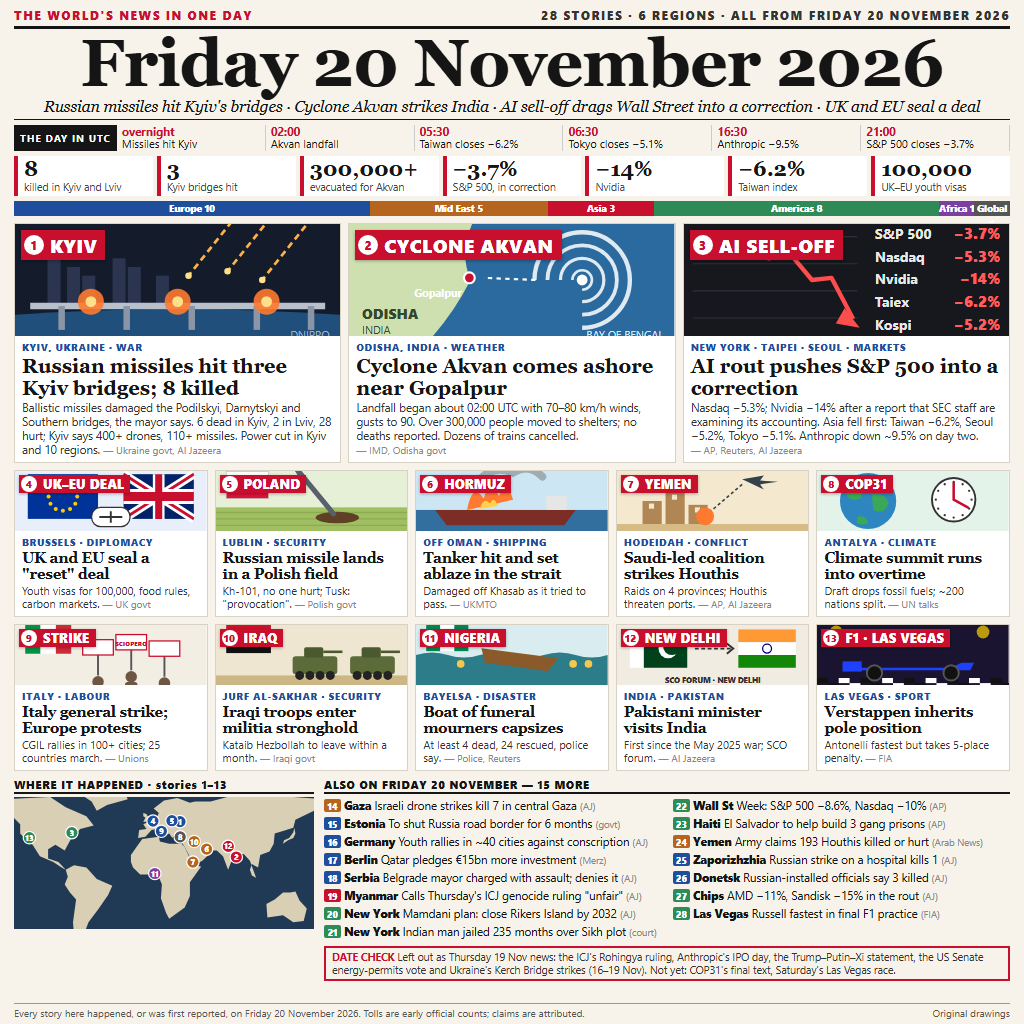
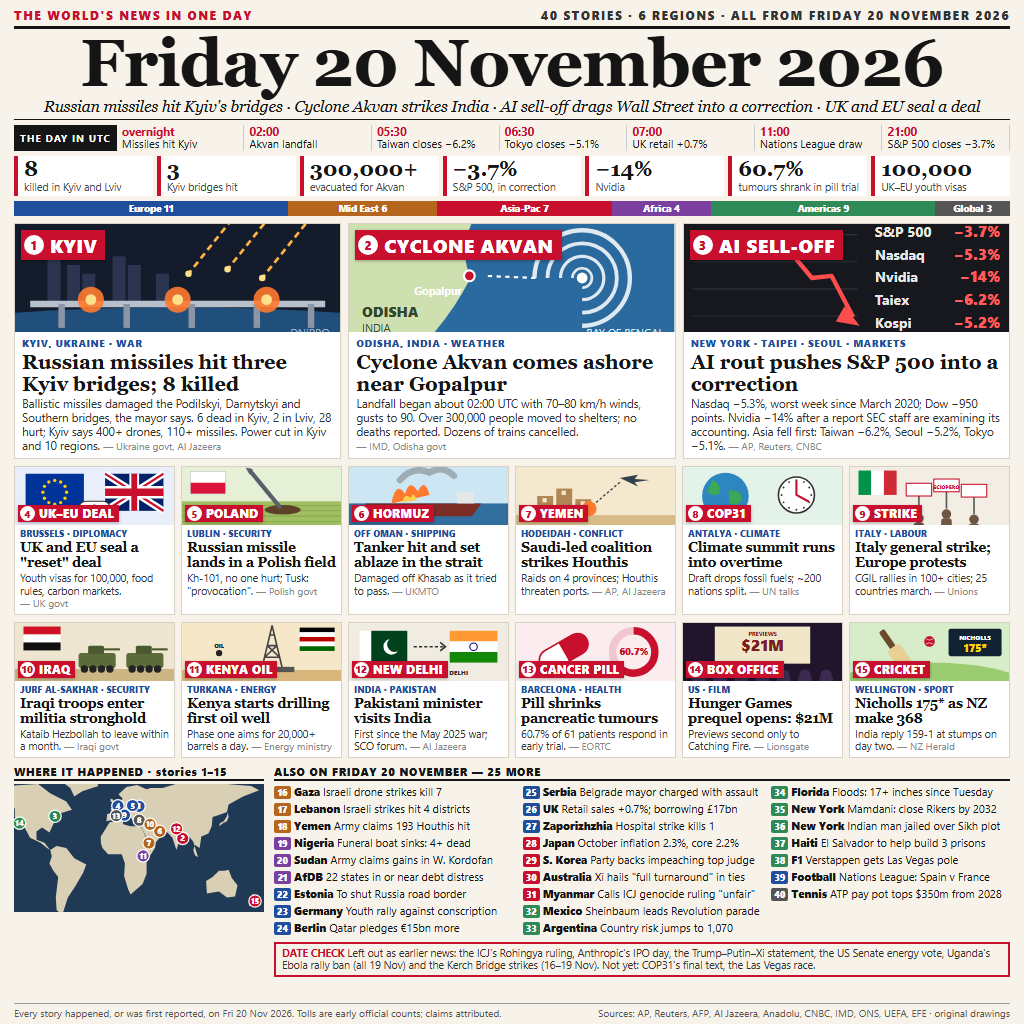
v3: 40 stories; add Kenya oil, AfDB, Sudan, Japan CPI, cricket, box office, cancer pill, UK data
Rows of six tiles, three brief columns, map covers stories 1-15, sources in footer.

diff --git a/README.md b/README.md
@@ -4,7 +4,7 @@
 [![rank](https://make.fun/badge/news-image-20261120/BrotherMus/world-news-2026-11-20/rank.svg)](https://make.fun/bounty/news-image-20261120/leaderboard?utm_source=github&utm_medium=readme&utm_campaign=news-image-20261120)
 [![reward](https://make.fun/badge/news-image-20261120/BrotherMus/world-news-2026-11-20/reward.svg)](https://make.fun/bounty/news-image-20261120?utm_source=github&utm_medium=readme&utm_campaign=news-image-20261120)
 
-The world's news of Friday 20 November 2026 on one front page: 28 stories across six regions, led by Russia's missile strike on Kyiv's bridges, Cyclone Akvan's landfall in Odisha and the AI sell-off that pushed the S&P 500 into a correction. It has a UTC timeline, key numbers, a numbered locator map and a date check naming the Thursday stories it left out.
+The world's news of Friday 20 November 2026 on one front page: 40 stories across six regions and every field from war to cricket, led by Russia's missile strike on Kyiv's bridges, Cyclone Akvan's landfall in Odisha and the AI sell-off that pushed the S&P 500 into a correction. It has a UTC timeline, key numbers, a numbered locator map and a date check naming the Thursday stories it left out.
 
 `tools/render.mjs` draws the page as HTML with inline SVG and screenshots it with headless Edge to `entry.png`; `main.ts` copies that image to `/output/entry.png`.
 
